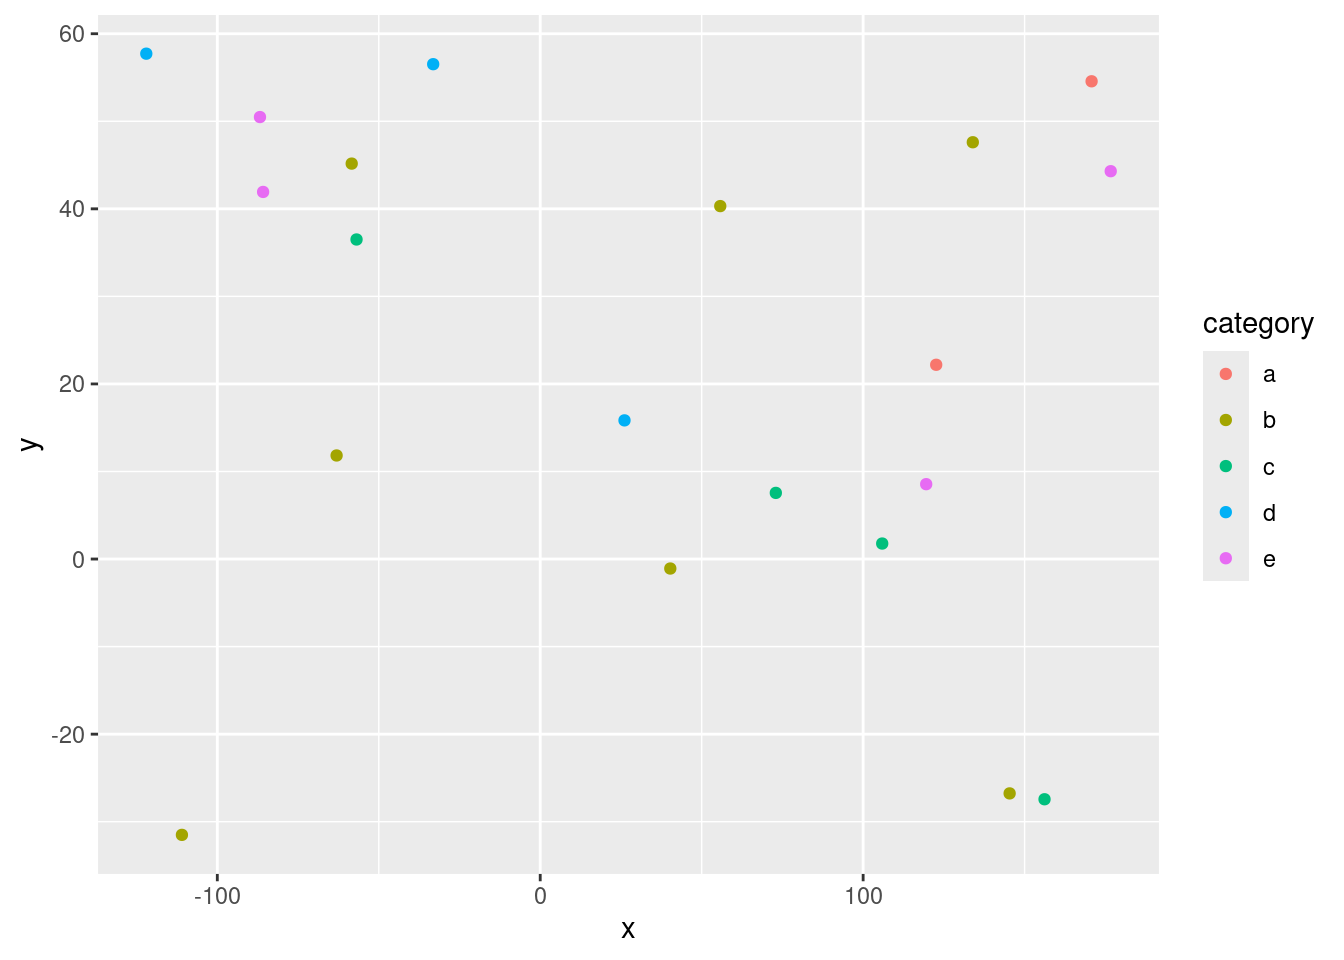
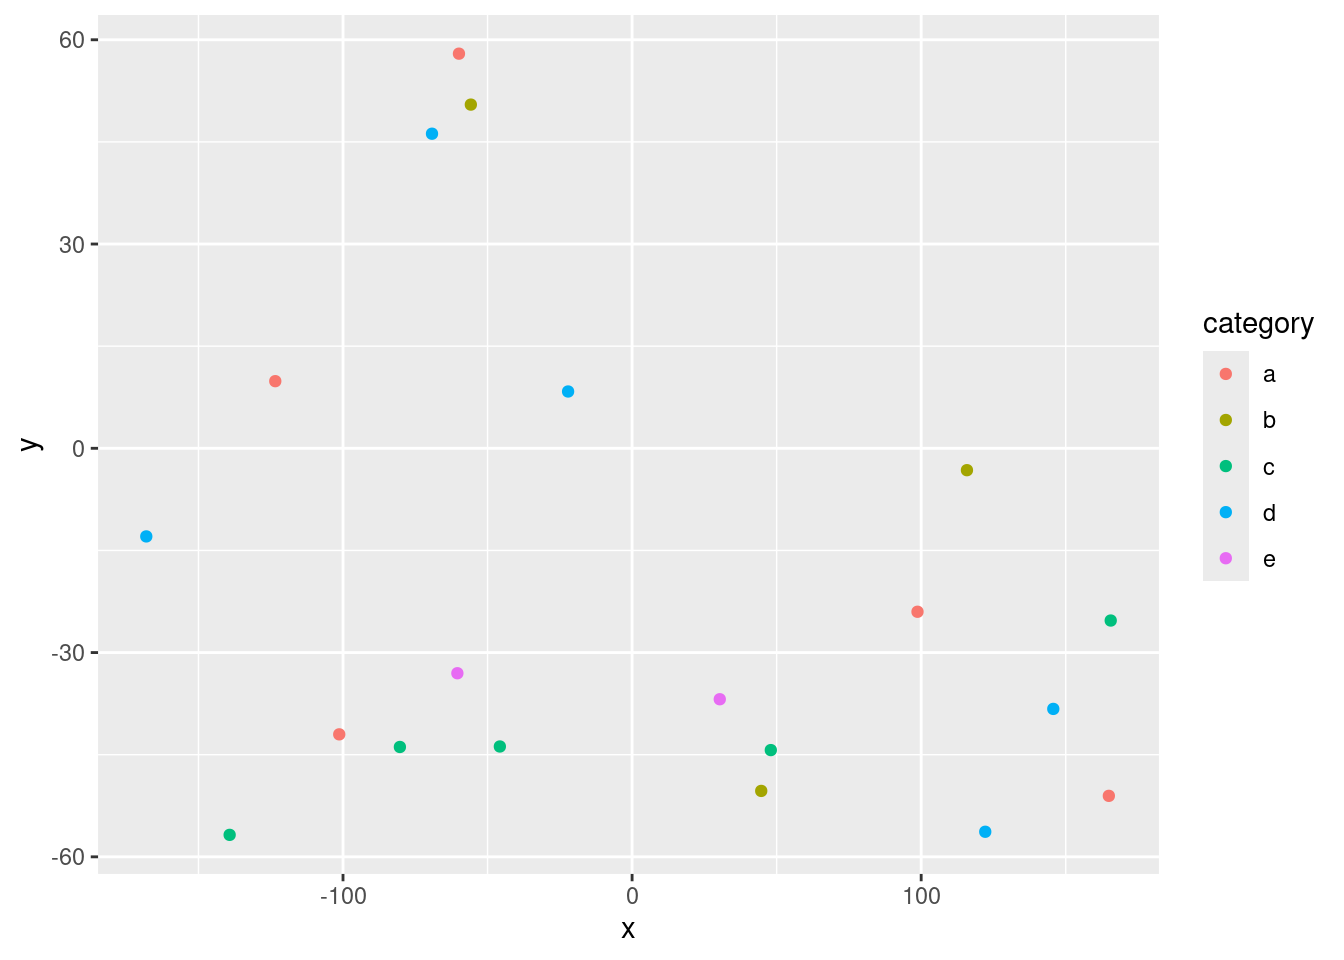
Built site for gh-pages

diff --git a/index.html b/index.html
@@ -266,74 +266,74 @@ pre > code.sourceCode > span > a:first-child::before { text-decoration: underlin
 </thead>
 <tbody>
 <tr class="odd">
-<td style="text-align: center;">170.75</td>
-<td style="text-align: center;">54.57</td>
-<td style="text-align: center;">8.42</td>
+<td style="text-align: center;">-22.14</td>
+<td style="text-align: center;">8.34</td>
+<td style="text-align: center;">11.03</td>
+<td style="text-align: center;">d</td>
+<td style="text-align: center;">-0.52</td>
+</tr>
+<tr class="even">
+<td style="text-align: center;">-168.05</td>
+<td style="text-align: center;">-12.94</td>
+<td style="text-align: center;">16.09</td>
+<td style="text-align: center;">d</td>
+<td style="text-align: center;">1.36</td>
+</tr>
+<tr class="odd">
+<td style="text-align: center;">-55.78</td>
+<td style="text-align: center;">50.48</td>
+<td style="text-align: center;">5.83</td>
+<td style="text-align: center;">b</td>
+<td style="text-align: center;">0.56</td>
+</tr>
+<tr class="even">
+<td style="text-align: center;">145.70</td>
+<td style="text-align: center;">-38.27</td>
+<td style="text-align: center;">16.25</td>
+<td style="text-align: center;">d</td>
+<td style="text-align: center;">0.15</td>
+</tr>
+<tr class="odd">
+<td style="text-align: center;">122.16</td>
+<td style="text-align: center;">-56.32</td>
+<td style="text-align: center;">18.39</td>
+<td style="text-align: center;">d</td>
+<td style="text-align: center;">-0.64</td>
+</tr>
+<tr class="even">
+<td style="text-align: center;">115.83</td>
+<td style="text-align: center;">-3.21</td>
+<td style="text-align: center;">8.33</td>
+<td style="text-align: center;">b</td>
+<td style="text-align: center;">-0.84</td>
+</tr>
+<tr class="odd">
+<td style="text-align: center;">30.33</td>
+<td style="text-align: center;">-36.85</td>
+<td style="text-align: center;">9.46</td>
+<td style="text-align: center;">e</td>
+<td style="text-align: center;">2.10</td>
+</tr>
+<tr class="even">
+<td style="text-align: center;">-59.89</td>
+<td style="text-align: center;">57.96</td>
+<td style="text-align: center;">9.68</td>
 <td style="text-align: center;">a</td>
-<td style="text-align: center;">-0.19</td>
-</tr>
-<tr class="even">
-<td style="text-align: center;">40.28</td>
-<td style="text-align: center;">-1.08</td>
-<td style="text-align: center;">7.68</td>
-<td style="text-align: center;">b</td>
-<td style="text-align: center;">0.05</td>
+<td style="text-align: center;">1.26</td>
 </tr>
 <tr class="odd">
-<td style="text-align: center;">-58.38</td>
-<td style="text-align: center;">45.17</td>
-<td style="text-align: center;">13.51</td>
-<td style="text-align: center;">b</td>
-<td style="text-align: center;">-1.49</td>
-</tr>
-<tr class="even">
-<td style="text-align: center;">-85.82</td>
-<td style="text-align: center;">41.93</td>
-<td style="text-align: center;">19.80</td>
+<td style="text-align: center;">-60.44</td>
+<td style="text-align: center;">-33.04</td>
+<td style="text-align: center;">13.28</td>
 <td style="text-align: center;">e</td>
-<td style="text-align: center;">-1.27</td>
-</tr>
-<tr class="odd">
-<td style="text-align: center;">119.53</td>
-<td style="text-align: center;">8.55</td>
-<td style="text-align: center;">10.30</td>
-<td style="text-align: center;">e</td>
-<td style="text-align: center;">1.14</td>
+<td style="text-align: center;">-0.26</td>
 </tr>
 <tr class="even">
-<td style="text-align: center;">-63.06</td>
-<td style="text-align: center;">11.83</td>
-<td style="text-align: center;">19.06</td>
-<td style="text-align: center;">b</td>
-<td style="text-align: center;">-0.58</td>
-</tr>
-<tr class="odd">
-<td style="text-align: center;">133.96</td>
-<td style="text-align: center;">47.60</td>
-<td style="text-align: center;">18.25</td>
-<td style="text-align: center;">b</td>
-<td style="text-align: center;">0.18</td>
-</tr>
-<tr class="even">
-<td style="text-align: center;">-33.15</td>
-<td style="text-align: center;">56.52</td>
-<td style="text-align: center;">7.84</td>
-<td style="text-align: center;">d</td>
-<td style="text-align: center;">1.63</td>
-</tr>
-<tr class="odd">
-<td style="text-align: center;">26.10</td>
-<td style="text-align: center;">15.84</td>
-<td style="text-align: center;">12.00</td>
-<td style="text-align: center;">d</td>
-<td style="text-align: center;">0.27</td>
-</tr>
-<tr class="even">
-<td style="text-align: center;">176.67</td>
-<td style="text-align: center;">44.30</td>
-<td style="text-align: center;">12.10</td>
-<td style="text-align: center;">e</td>
-<td style="text-align: center;">-0.25</td>
+<td style="text-align: center;">164.92</td>
+<td style="text-align: center;">-51.04</td>
+<td style="text-align: center;">8.96</td>
+<td style="text-align: center;">a</td>
+<td style="text-align: center;">-0.52</td>
 </tr>
 </tbody>
 </table>
@@ -355,8 +355,8 @@ pre > code.sourceCode > span > a:first-child::before { text-decoration: underlin
 <span id="cb5-4"><a href="#cb5-4" aria-hidden="true" tabindex="-1"></a>  <span class="fu">addPopups</span>(<span class="sc">~</span>x[<span class="dv">2</span>], <span class="sc">~</span>y[<span class="dv">2</span>], <span class="st">"Random popup"</span>)</span>
 <span id="cb5-5"><a href="#cb5-5" aria-hidden="true" tabindex="-1"></a>m  <span class="co"># a map with the default OSM tile layer</span></span></code><button title="Copy to Clipboard" class="code-copy-button"><i class="bi"></i></button></pre></div>
 <div class="cell-output-display">
-<div class="leaflet html-widget html-fill-item" id="htmlwidget-ba8e313158afed956a85" style="width:100%;height:325px;"></div>
-<script type="application/json" data-for="htmlwidget-ba8e313158afed956a85">{"x":{"options":{"crs":{"crsClass":"L.CRS.EPSG3857","code":null,"proj4def":null,"projectedBounds":null,"options":{}}},"calls":[{"method":"addTiles","args":["https://{s}.tile.openstreetmap.org/{z}/{x}/{y}.png",null,null,{"minZoom":0,"maxZoom":18,"tileSize":256,"subdomains":"abc","errorTileUrl":"","tms":false,"noWrap":false,"zoomOffset":0,"zoomReverse":false,"opacity":1,"zIndex":1,"detectRetina":false,"attribution":"&copy; <a href=\"https://openstreetmap.org/copyright/\">OpenStreetMap<\/a>,  <a href=\"https://opendatacommons.org/licenses/odbl/\">ODbL<\/a>"}]},{"method":"addCircleMarkers","args":[[54.56673628650606,-1.0826719366014,45.16565311700106,41.92904672585428,8.551840027794242,11.82900552637875,47.60452321730554,56.52065525762737,15.83807431161404,44.29893476888537,36.49791257455945,40.31210300512612,22.1881852671504,1.770869437605143,-31.50336116552353,-27.43609204888344,-26.76643246784806,57.72161294706166,7.555730603635311,50.4813642706722],[170.7475309912115,40.2816519420594,-58.38133466430008,-85.8179771527648,119.5282489433885,-63.05644299834967,133.9626437611878,-33.14751676283777,26.09841221943498,176.670873016119,-56.8839156255126,55.75456900522113,122.624676944688,105.9057708643377,-110.9611526504159,156.1748306639493,145.367192896083,-121.993249822408,72.96223551034927,-86.78807171992958],[8.423119414364919,7.681309011531994,13.51405380759388,19.80265280464664,10.29688618145883,19.05502767302096,18.2478180329781,7.841545501723886,11.99505008640699,12.09673461737111,16.55591491027735,17.36001361045055,16.94514931528829,15.95678932382725,14.77772971964441,11.74437219742686,13.88087694533169,9.176382696023211,6.274527413770556,7.236426554154605],null,null,{"interactive":true,"className":"","stroke":true,"color":["a","b","b","e","e","b","b","d","d","e","c","b","a","c","b","c","b","d","c","e"],"weight":5,"opacity":0.5,"fill":true,"fillColor":["a","b","b","e","e","b","b","d","d","e","c","b","a","c","b","c","b","d","c","e"],"fillOpacity":0.2},null,null,null,null,null,{"interactive":false,"permanent":false,"direction":"auto","opacity":1,"offset":[0,0],"textsize":"10px","textOnly":false,"className":"","sticky":true},null]},{"method":"addPopups","args":[-1.0826719366014,40.2816519420594,"Random popup",null,null,{"maxWidth":300,"minWidth":50,"autoPan":true,"keepInView":false,"closeButton":true,"className":""}]}],"limits":{"lat":[-31.50336116552353,57.72161294706166],"lng":[-121.993249822408,176.670873016119]}},"evals":[],"jsHooks":[]}</script>
+<div class="leaflet html-widget html-fill-item" id="htmlwidget-65f2c4601a41409518ee" style="width:100%;height:325px;"></div>
+<script type="application/json" data-for="htmlwidget-65f2c4601a41409518ee">{"x":{"options":{"crs":{"crsClass":"L.CRS.EPSG3857","code":null,"proj4def":null,"projectedBounds":null,"options":{}}},"calls":[{"method":"addTiles","args":["https://{s}.tile.openstreetmap.org/{z}/{x}/{y}.png",null,null,{"minZoom":0,"maxZoom":18,"tileSize":256,"subdomains":"abc","errorTileUrl":"","tms":false,"noWrap":false,"zoomOffset":0,"zoomReverse":false,"opacity":1,"zIndex":1,"detectRetina":false,"attribution":"&copy; <a href=\"https://openstreetmap.org/copyright/\">OpenStreetMap<\/a>,  <a href=\"https://opendatacommons.org/licenses/odbl/\">ODbL<\/a>"}]},{"method":"addCircleMarkers","args":[[8.343798760324717,-12.94084855355322,50.47859994694591,-38.27453389763832,-56.318095671013,-3.212716318666935,-36.85462734661996,57.9595525469631,-33.03550366312265,-51.04419076815248,-44.32425216771662,-43.79365207627416,-24.00630463846028,9.860723968595266,-56.77440466359258,-25.29479820281267,-43.86507553048432,-42.01120477169752,-50.31878454610705,46.20291343890131],[-22.14136376045644,-168.0508930329233,-55.78044611960649,145.701011409983,122.1646456606686,115.8307112473994,30.32989030703902,-59.89143108017743,-60.43963931500912,164.9188618082553,47.9867150913924,-45.74487090110779,98.72919643297791,-123.4313672315329,-139.2159553058445,165.5669920518994,-80.32487402670085,-101.3054352253675,44.67190213501453,-69.21676020137966],[11.02966614533216,16.09030390856788,5.828970632283017,16.25015535508282,18.38937376160175,8.328403433552012,9.464084170758724,9.68030842137523,13.27817618031986,8.958245635731146,15.23267221753486,16.92456864868291,15.77158158295788,9.3850686121732,9.564029121538624,19.53841503593139,19.70397239667363,15.71071718935855,10.44724224484526,19.68392339767888],null,null,{"interactive":true,"className":"","stroke":true,"color":["d","d","b","d","d","b","e","a","e","a","c","c","a","a","c","c","c","a","b","d"],"weight":5,"opacity":0.5,"fill":true,"fillColor":["d","d","b","d","d","b","e","a","e","a","c","c","a","a","c","c","c","a","b","d"],"fillOpacity":0.2},null,null,null,null,null,{"interactive":false,"permanent":false,"direction":"auto","opacity":1,"offset":[0,0],"textsize":"10px","textOnly":false,"className":"","sticky":true},null]},{"method":"addPopups","args":[-12.94084855355322,-168.0508930329233,"Random popup",null,null,{"maxWidth":300,"minWidth":50,"autoPan":true,"keepInView":false,"closeButton":true,"className":""}]}],"limits":{"lat":[-56.77440466359258,57.9595525469631],"lng":[-168.0508930329233,165.5669920518994]}},"evals":[],"jsHooks":[]}</script>
 <p>Map of completely random data</p>
 </div>
 </div>
@@ -379,8 +379,8 @@ pre > code.sourceCode > span > a:first-child::before { text-decoration: underlin
 <span id="cb7-2"><a href="#cb7-2" aria-hidden="true" tabindex="-1"></a><span class="fu">dygraph</span>(nhtemp, <span class="at">main =</span> <span class="st">"New Haven Temperatures"</span>) <span class="sc">|&gt;</span> </span>
 <span id="cb7-3"><a href="#cb7-3" aria-hidden="true" tabindex="-1"></a>  <span class="fu">dyRangeSelector</span>(<span class="at">dateWindow =</span> <span class="fu">c</span>(<span class="st">"1920-01-01"</span>, <span class="st">"1960-01-01"</span>)) </span></code><button title="Copy to Clipboard" class="code-copy-button"><i class="bi"></i></button></pre></div>
 <div class="cell-output-display">
-<div class="dygraphs html-widget html-fill-item" id="htmlwidget-96930db25d4bf9600a8c" style="width:100%;height:464px;"></div>
-<script type="application/json" data-for="htmlwidget-96930db25d4bf9600a8c">{"x":{"attrs":{"title":"New Haven Temperatures","labels":["year","V1"],"legend":"auto","retainDateWindow":false,"axes":{"x":{"pixelsPerLabel":60}},"showRangeSelector":true,"dateWindow":["1920-01-01T00:00:00.000Z","1960-01-01T00:00:00.000Z"],"rangeSelectorHeight":40,"rangeSelectorPlotFillColor":" #A7B1C4","rangeSelectorPlotStrokeColor":"#808FAB","interactionModel":"Dygraph.Interaction.defaultModel"},"scale":"yearly","annotations":[],"shadings":[],"events":[],"format":"date","data":[["1912-01-01T00:00:00.000Z","1913-01-01T00:00:00.000Z","1914-01-01T00:00:00.000Z","1915-01-01T00:00:00.000Z","1916-01-01T00:00:00.000Z","1917-01-01T00:00:00.000Z","1918-01-01T00:00:00.000Z","1919-01-01T00:00:00.000Z","1920-01-01T00:00:00.000Z","1921-01-01T00:00:00.000Z","1922-01-01T00:00:00.000Z","1923-01-01T00:00:00.000Z","1924-01-01T00:00:00.000Z","1925-01-01T00:00:00.000Z","1926-01-01T00:00:00.000Z","1927-01-01T00:00:00.000Z","1928-01-01T00:00:00.000Z","1929-01-01T00:00:00.000Z","1930-01-01T00:00:00.000Z","1931-01-01T00:00:00.000Z","1932-01-01T00:00:00.000Z","1933-01-01T00:00:00.000Z","1934-01-01T00:00:00.000Z","1935-01-01T00:00:00.000Z","1936-01-01T00:00:00.000Z","1937-01-01T00:00:00.000Z","1938-01-01T00:00:00.000Z","1939-01-01T00:00:00.000Z","1940-01-01T00:00:00.000Z","1941-01-01T00:00:00.000Z","1942-01-01T00:00:00.000Z","1943-01-01T00:00:00.000Z","1944-01-01T00:00:00.000Z","1945-01-01T00:00:00.000Z","1946-01-01T00:00:00.000Z","1947-01-01T00:00:00.000Z","1948-01-01T00:00:00.000Z","1949-01-01T00:00:00.000Z","1950-01-01T00:00:00.000Z","1951-01-01T00:00:00.000Z","1952-01-01T00:00:00.000Z","1953-01-01T00:00:00.000Z","1954-01-01T00:00:00.000Z","1955-01-01T00:00:00.000Z","1956-01-01T00:00:00.000Z","1957-01-01T00:00:00.000Z","1958-01-01T00:00:00.000Z","1959-01-01T00:00:00.000Z","1960-01-01T00:00:00.000Z","1961-01-01T00:00:00.000Z","1962-01-01T00:00:00.000Z","1963-01-01T00:00:00.000Z","1964-01-01T00:00:00.000Z","1965-01-01T00:00:00.000Z","1966-01-01T00:00:00.000Z","1967-01-01T00:00:00.000Z","1968-01-01T00:00:00.000Z","1969-01-01T00:00:00.000Z","1970-01-01T00:00:00.000Z","1971-01-01T00:00:00.000Z"],[49.9,52.3,49.4,51.1,49.4,47.9,49.8,50.9,49.3,51.9,50.8,49.6,49.3,50.6,48.4,50.7,50.9,50.6,51.5,52.8,51.8,51.1,49.8,50.2,50.4,51.6,51.8,50.9,48.8,51.7,51,50.6,51.7,51.5,52.1,51.3,51,54,51.4,52.7,53.1,54.6,52,52,50.9,52.6,50.2,52.6,51.6,51.9,50.5,50.9,51.7,51.4,51.7,50.8,51.9,51.8,51.9,53]]},"evals":["attrs.interactionModel"],"jsHooks":[]}</script>
+<div class="dygraphs html-widget html-fill-item" id="htmlwidget-dcdaefad3922fe331469" style="width:100%;height:464px;"></div>
+<script type="application/json" data-for="htmlwidget-dcdaefad3922fe331469">{"x":{"attrs":{"title":"New Haven Temperatures","labels":["year","V1"],"legend":"auto","retainDateWindow":false,"axes":{"x":{"pixelsPerLabel":60}},"showRangeSelector":true,"dateWindow":["1920-01-01T00:00:00.000Z","1960-01-01T00:00:00.000Z"],"rangeSelectorHeight":40,"rangeSelectorPlotFillColor":" #A7B1C4","rangeSelectorPlotStrokeColor":"#808FAB","interactionModel":"Dygraph.Interaction.defaultModel"},"scale":"yearly","annotations":[],"shadings":[],"events":[],"format":"date","data":[["1912-01-01T00:00:00.000Z","1913-01-01T00:00:00.000Z","1914-01-01T00:00:00.000Z","1915-01-01T00:00:00.000Z","1916-01-01T00:00:00.000Z","1917-01-01T00:00:00.000Z","1918-01-01T00:00:00.000Z","1919-01-01T00:00:00.000Z","1920-01-01T00:00:00.000Z","1921-01-01T00:00:00.000Z","1922-01-01T00:00:00.000Z","1923-01-01T00:00:00.000Z","1924-01-01T00:00:00.000Z","1925-01-01T00:00:00.000Z","1926-01-01T00:00:00.000Z","1927-01-01T00:00:00.000Z","1928-01-01T00:00:00.000Z","1929-01-01T00:00:00.000Z","1930-01-01T00:00:00.000Z","1931-01-01T00:00:00.000Z","1932-01-01T00:00:00.000Z","1933-01-01T00:00:00.000Z","1934-01-01T00:00:00.000Z","1935-01-01T00:00:00.000Z","1936-01-01T00:00:00.000Z","1937-01-01T00:00:00.000Z","1938-01-01T00:00:00.000Z","1939-01-01T00:00:00.000Z","1940-01-01T00:00:00.000Z","1941-01-01T00:00:00.000Z","1942-01-01T00:00:00.000Z","1943-01-01T00:00:00.000Z","1944-01-01T00:00:00.000Z","1945-01-01T00:00:00.000Z","1946-01-01T00:00:00.000Z","1947-01-01T00:00:00.000Z","1948-01-01T00:00:00.000Z","1949-01-01T00:00:00.000Z","1950-01-01T00:00:00.000Z","1951-01-01T00:00:00.000Z","1952-01-01T00:00:00.000Z","1953-01-01T00:00:00.000Z","1954-01-01T00:00:00.000Z","1955-01-01T00:00:00.000Z","1956-01-01T00:00:00.000Z","1957-01-01T00:00:00.000Z","1958-01-01T00:00:00.000Z","1959-01-01T00:00:00.000Z","1960-01-01T00:00:00.000Z","1961-01-01T00:00:00.000Z","1962-01-01T00:00:00.000Z","1963-01-01T00:00:00.000Z","1964-01-01T00:00:00.000Z","1965-01-01T00:00:00.000Z","1966-01-01T00:00:00.000Z","1967-01-01T00:00:00.000Z","1968-01-01T00:00:00.000Z","1969-01-01T00:00:00.000Z","1970-01-01T00:00:00.000Z","1971-01-01T00:00:00.000Z"],[49.9,52.3,49.4,51.1,49.4,47.9,49.8,50.9,49.3,51.9,50.8,49.6,49.3,50.6,48.4,50.7,50.9,50.6,51.5,52.8,51.8,51.1,49.8,50.2,50.4,51.6,51.8,50.9,48.8,51.7,51,50.6,51.7,51.5,52.1,51.3,51,54,51.4,52.7,53.1,54.6,52,52,50.9,52.6,50.2,52.6,51.6,51.9,50.5,50.9,51.7,51.4,51.7,50.8,51.9,51.8,51.9,53]]},"evals":["attrs.interactionModel"],"jsHooks":[]}</script>
 </div>
 </div>
 </section>
